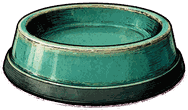
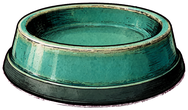
fix ghost food: FASTOCTREE quantize merges opaque+semi-transparent pixels of flat colors into one palette entry with AVERAGED alpha -> whole sprite renders ~10% opacity. Food/barrels/bowl/yarn/shooter now ship as full RGBA (1.4MB total); quantize kept only for the big cat sprites (varied colors dodg

diff --git a/tools/gen_sprites.py b/tools/gen_sprites.py
@@ -203,9 +203,6 @@ def food():
         out = t2i(prompt, seed=6100 + i)
         fetch(*out, f'assets/raw/food_{key}.png')
         prep(f'assets/raw/food_{key}.png', f'assets/food_{key}.png', 48)
-        from PIL import Image
-        im = Image.open(f'assets/food_{key}.png').convert('RGBA')
-        im.quantize(colors=128, method=Image.FASTOCTREE).save(f'assets/food_{key}.png', optimize=True)
         print(f'food {key} done')
     print('FOOD DONE')
 
